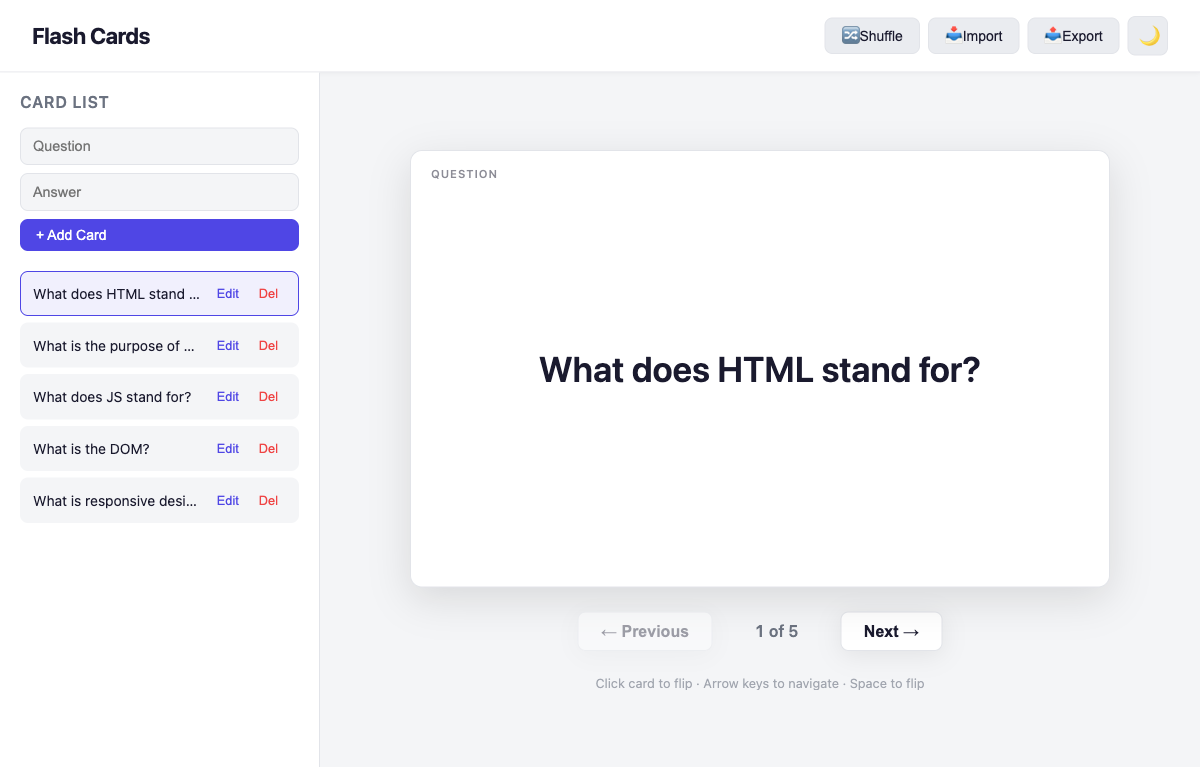
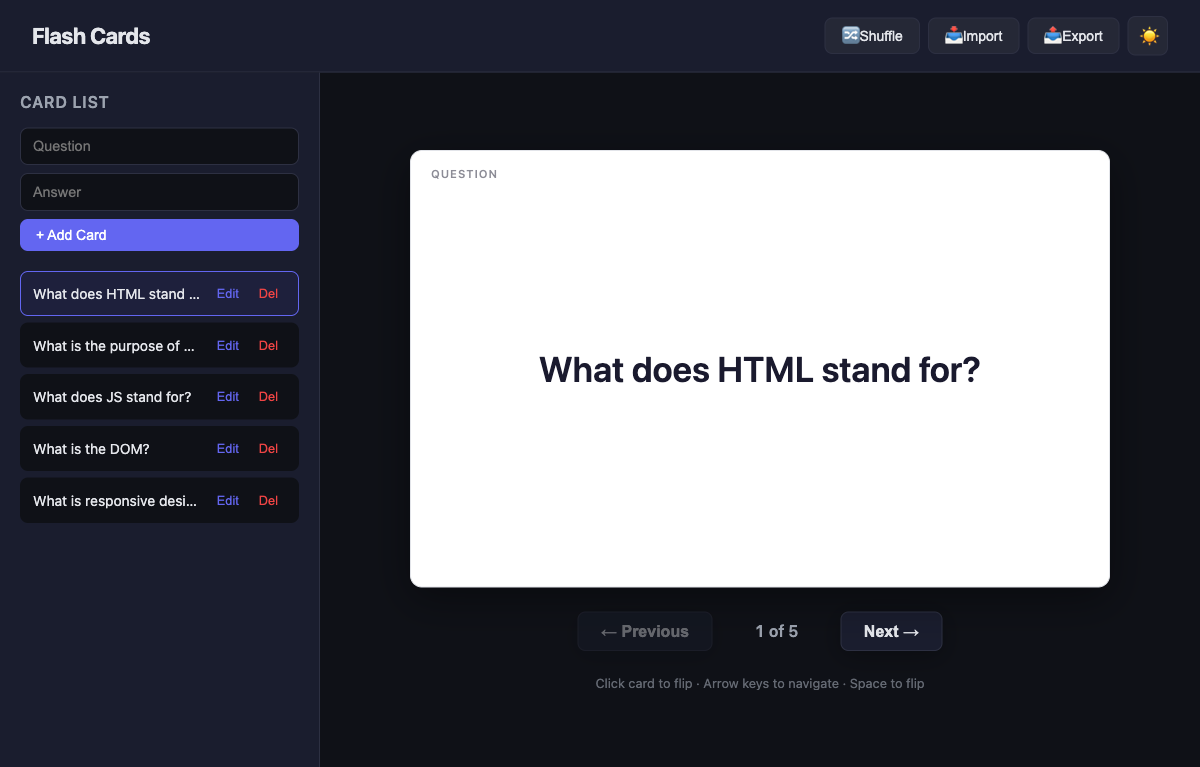
Switch default theme to dark with white flashcard
- Dark background as default theme
- White flashcard face for high contrast readability
- Updated screenshot to reflect dark theme
- Light mode still available via toggle

diff --git a/style.css b/style.css
@@ -8,6 +8,29 @@
 }
 
 :root {
+  --bg: #0f1117;
+  --surface: #1a1d2e;
+  --surface-alt: #252836;
+  --text: #e4e6eb;
+  --text-muted: #9ca3af;
+  --primary: #6366f1;
+  --primary-hover: #818cf8;
+  --danger: #ef4444;
+  --danger-hover: #dc2626;
+  --border: #2d3042;
+  --shadow: 0 4px 24px rgba(0, 0, 0, 0.3);
+  --shadow-lg: 0 12px 40px rgba(0, 0, 0, 0.4);
+  --radius: 12px;
+  --radius-sm: 8px;
+  --transition: 0.2s ease;
+  --font: -apple-system, BlinkMacSystemFont, "Segoe UI", Roboto, sans-serif;
+  --font-mono: "SF Mono", "Fira Code", monospace;
+  --card-bg: #ffffff;
+  --card-text: #1a1a2e;
+  --card-border: #e2e4e9;
+}
+
+[data-theme="light"] {
   --bg: #f4f5f7;
   --surface: #ffffff;
   --surface-alt: #eaecf0;
@@ -15,27 +38,12 @@
   --text-muted: #6b7280;
   --primary: #4f46e5;
   --primary-hover: #4338ca;
-  --danger: #ef4444;
-  --danger-hover: #dc2626;
   --border: #e2e4e9;
   --shadow: 0 4px 24px rgba(0, 0, 0, 0.08);
   --shadow-lg: 0 12px 40px rgba(0, 0, 0, 0.12);
-  --radius: 12px;
-  --radius-sm: 8px;
-  --transition: 0.2s ease;
-  --font: -apple-system, BlinkMacSystemFont, "Segoe UI", Roboto, sans-serif;
-  --font-mono: "SF Mono", "Fira Code", monospace;
-}
-
-[data-theme="dark"] {
-  --bg: #0f1117;
-  --surface: #1a1d2e;
-  --surface-alt: #252836;
-  --text: #e4e6eb;
-  --text-muted: #9ca3af;
-  --border: #2d3042;
-  --shadow: 0 4px 24px rgba(0, 0, 0, 0.3);
-  --shadow-lg: 0 12px 40px rgba(0, 0, 0, 0.4);
+  --card-bg: #ffffff;
+  --card-text: #1a1a2e;
+  --card-border: #e2e4e9;
 }
 
 html {
@@ -334,8 +342,9 @@ main {
 }
 
 .flashcard-front {
-  background: var(--surface);
-  border: 1px solid var(--border);
+  background: var(--card-bg);
+  color: var(--card-text);
+  border: 1px solid var(--card-border);
 }
 
 .flashcard-back {

diff --git a/script.js b/script.js
@@ -245,10 +245,9 @@ function importCards(file) {
 // ── Theme ──
 function loadTheme() {
   const saved = localStorage.getItem("flashcard-theme");
-  if (saved) {
-    document.documentElement.dataset.theme = saved;
-    updateThemeIcon(saved);
-  }
+  const theme = saved || "dark";
+  document.documentElement.dataset.theme = theme;
+  updateThemeIcon(theme);
 }
 
 function toggleTheme() {

diff --git a/index.html b/index.html
@@ -1,5 +1,5 @@
 <!DOCTYPE html>
-<html lang="en" data-theme="light">
+<html lang="en" data-theme="dark">
 <head>
   <meta charset="UTF-8">
   <meta name="viewport" content="width=device-width, initial-scale=1.0">
